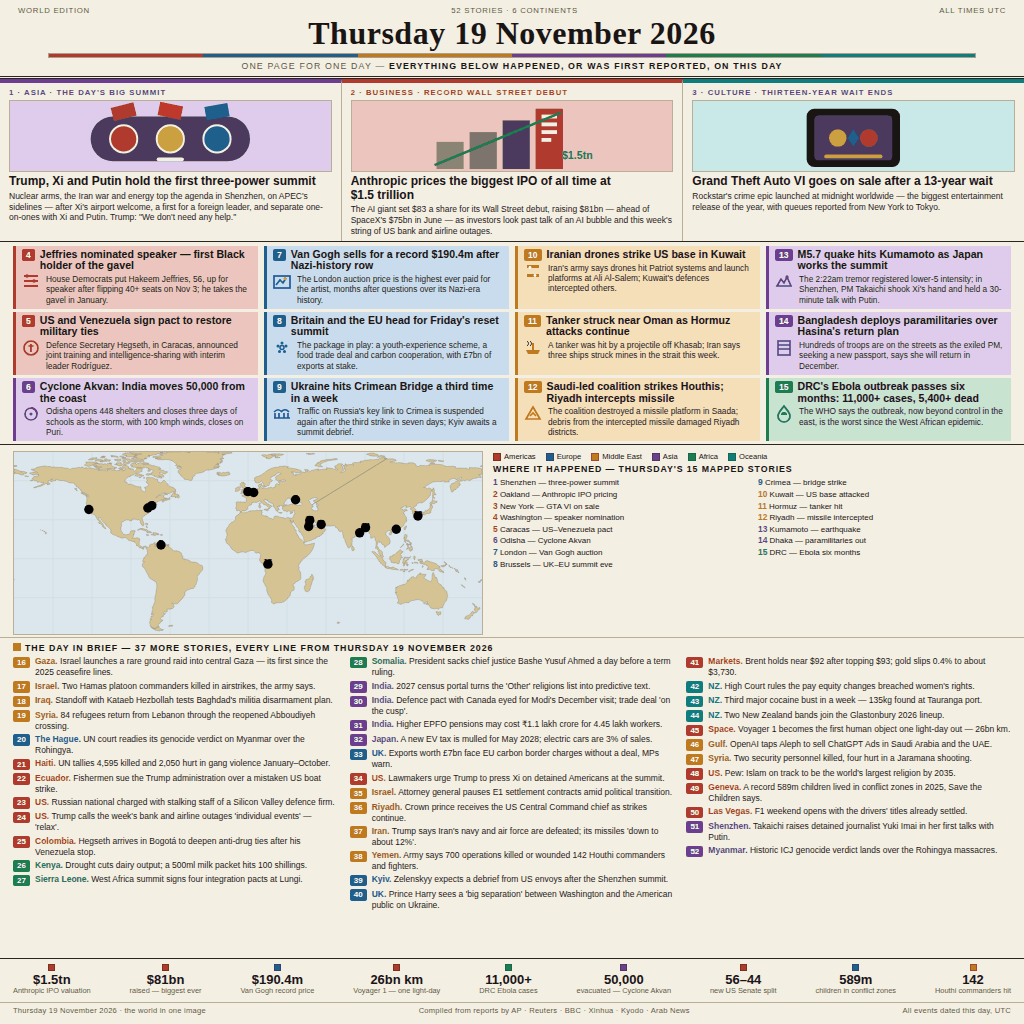
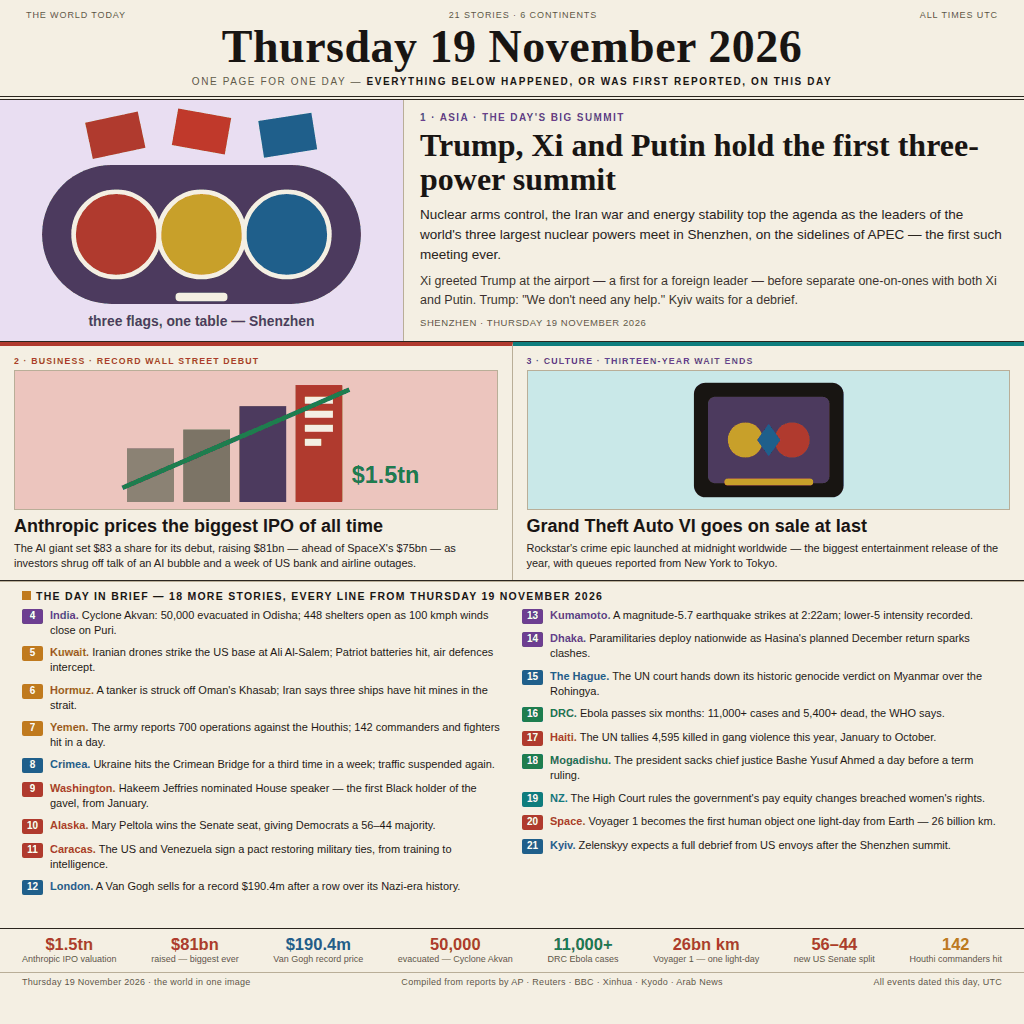
v3: The World Today — clean curated front page, 21 stories in large type, big drawn lead art

diff --git a/poster/poster-clean.html b/poster/poster-clean.html
@@ -1,0 +1,186 @@
+<!DOCTYPE html>
+<html lang="en">
+<head>
+<meta charset="utf-8">
+<title>The World Today — Thursday 19 November 2026</title>
+<style>
+  :root{
+    --paper:#f4efe3; --ink:#181512; --faint:#5f584a; --rule:#2a251e;
+    --amr:#b03a2e; --eur:#1f5f8b; --mid:#c07a1e; --asi:#6d3d8f; --afr:#1e7d4e; --ocn:#0e7d7d;
+  }
+  *{margin:0;padding:0;box-sizing:border-box;}
+  html,body{width:1024px;height:1024px;overflow:hidden;}
+  body{
+    background:var(--paper); color:var(--ink);
+    font-family:"Liberation Sans","DejaVu Sans",Arial,sans-serif;
+    display:flex; flex-direction:column; height:1024px;
+  }
+  .band{flex:0 0 auto; overflow:hidden;}
+  /* masthead */
+  #masthead{padding:10px 26px 0 26px; text-align:center; border-bottom:4px double var(--rule);}
+  #masthead .corners{display:flex; justify-content:space-between; font-size:9px; letter-spacing:.1em; color:var(--faint); text-transform:uppercase;}
+  #masthead h1{font-family:"Liberation Serif","DejaVu Serif",Georgia,serif; font-weight:700; font-size:46px; letter-spacing:.5px; line-height:1.02; margin-top:4px;}
+  #masthead .strap{font-size:10px; letter-spacing:.16em; text-transform:uppercase; color:var(--faint); margin:5px 0 9px 0;}
+  #masthead .strap b{color:var(--ink);}
+  /* lead package */
+  #lead{display:flex; height:242px; border-bottom:1.5px solid var(--rule);}
+  #leadart{flex:0 0 404px; background:#e9def2; border-right:1px solid #b9ae98; position:relative; overflow:hidden;}
+  #leadart svg{position:absolute; inset:0; width:100%; height:100%;}
+  #leadstory{flex:1 1 auto; padding:12px 16px 8px 16px;}
+  #leadstory .kicker{font-size:10px; font-weight:700; letter-spacing:.14em; text-transform:uppercase; color:var(--asi); margin-bottom:6px;}
+  #leadstory h2{font-family:"Liberation Serif","DejaVu Serif",Georgia,serif; font-size:32px; line-height:1.06; font-weight:700; margin-bottom:8px;}
+  #leadstory p{font-size:13.5px; line-height:1.5; color:#26221b; margin-bottom:7px;}
+  #leadstory p.last{color:#3c382e; font-size:12.5px;}
+  #leadstory .dateline{font-size:9.5px; color:var(--faint); letter-spacing:.06em; text-transform:uppercase; margin-top:4px;}
+  /* two secondary heroes */
+  #seconds{display:flex; border-bottom:1.5px solid var(--rule);}
+  .sec{flex:1 1 0; padding:10px 14px 8px 14px; border-right:1px solid #b9ae98; display:flex; flex-direction:column;}
+  .sec:last-child{border-right:none;}
+  .sec .kicker{font-size:8.8px; font-weight:700; letter-spacing:.13em; text-transform:uppercase; margin-bottom:4px;}
+  .sec .art{height:140px; border:1px solid #b9ae98; position:relative; overflow:hidden; margin-bottom:6px;}
+  .sec .art svg{position:absolute; inset:0; width:100%; height:100%;}
+  .sec h3{font-size:18px; line-height:1.12; margin-bottom:5px;}
+  .sec p{font-size:11px; line-height:1.4; color:#26221b;}
+  .s-amr{border-top:4px solid var(--amr);} .s-amr .art{background:#ecc5be;}
+  .s-ocn{border-top:4px solid var(--ocn);} .s-ocn .art{background:#c9e8e8;}
+  /* brief rows: 18 stories, big type, two columns */
+  #briefs{padding:6px 22px 0 22px; border-top:1px solid #b9ae98;}
+  #briefs .bh{font-size:10.5px; font-weight:700; letter-spacing:.12em; text-transform:uppercase; margin:2px 0 6px 0;}
+  #briefs .bh .sq{display:inline-block; width:9px; height:9px; margin-right:5px; background:var(--mid);}
+  .cols{display:flex; gap:20px;}
+  .col{flex:1 1 0; height:318px; overflow:hidden;}
+  .brief{display:flex; gap:7px; margin-bottom:7.5px; align-items:flex-start;}
+  .brief .n{flex:0 0 21px; font-size:10px; font-weight:700; color:#fff; border-radius:2px; height:15px; text-align:center; line-height:14px; margin-top:1px;}
+  .brief p{font-size:11px; line-height:1.36; color:#1e1b16;}
+  .brief p b{font-size:11px;}
+  .b-amr p b{color:var(--amr);} .b-eur p b{color:var(--eur);} .b-mid p b{color:#9c6216;}
+  .b-asi p b{color:var(--asi);} .b-afr p b{color:var(--afr);} .b-ocn p b{color:var(--ocn);}
+  /* numbers + footer */
+  #numbers{border-top:1.5px solid var(--rule); margin-top:2px; padding:7px 22px 4px 22px; display:flex; justify-content:space-between;}
+  .fig{text-align:center; min-width:0;}
+  .fig .v{font-size:16.5px; font-weight:700; line-height:1.05;}
+  .fig .l{font-size:9px; color:var(--faint); line-height:1.2; margin-top:1px;}
+  .amr{background:var(--amr);} .eur{background:var(--eur);} .mid{background:var(--mid);}
+  .asi{background:var(--asi);} .afr{background:var(--afr);} .ocn{background:var(--ocn);}
+  .t-amr{color:var(--amr);} .t-eur{color:var(--eur);} .t-mid{color:var(--mid);}
+  .t-asi{color:var(--asi);} .t-afr{color:var(--afr);} .t-ocn{color:var(--ocn);}
+  #footer{margin-top:3px; padding:4px 22px 4px 22px; border-top:1px solid #b9ae98; font-size:9px; color:var(--faint); display:flex; justify-content:space-between; letter-spacing:.03em;}
+</style>
+</head>
+<body>
+
+<!-- ============ MASTHEAD ============ -->
+<div id="masthead" class="band">
+  <div class="corners"><span>The World Today</span><span>21 stories · 6 continents</span><span>All times UTC</span></div>
+  <h1>Thursday 19 November 2026</h1>
+  <div class="strap">One page for one day — <b>everything below happened, or was first reported, on this day</b></div>
+</div>
+
+<!-- ============ LEAD STORY ============ -->
+<div id="lead" class="band">
+  <div id="leadart">
+    <svg viewBox="0 0 404 260" preserveAspectRatio="xMidYMid meet">
+      <rect width="404" height="260" fill="#e9def2"/>
+      <rect x="30" y="70" width="344" height="150" rx="75" fill="#4c3a5e"/>
+      <circle cx="110" cy="145" r="46" fill="#b03a2e"/>
+      <circle cx="202" cy="145" r="46" fill="#c8a02a"/>
+      <circle cx="294" cy="145" r="46" fill="#1f5f8b"/>
+      <rect x="80" y="18" width="58" height="40" fill="#b03a2e" transform="rotate(-12 109 38)"/>
+      <rect x="173" y="14" width="58" height="40" fill="#c0392b" transform="rotate(10 202 34)"/>
+      <rect x="266" y="18" width="58" height="40" fill="#1f5f8b" transform="rotate(-9 295 38)"/>
+      <circle cx="110" cy="145" r="46" fill="none" stroke="#f4efe3" stroke-width="5"/>
+      <circle cx="202" cy="145" r="46" fill="none" stroke="#f4efe3" stroke-width="5"/>
+      <circle cx="294" cy="145" r="46" fill="none" stroke="#f4efe3" stroke-width="5"/>
+      <rect x="174" y="208" width="56" height="9" rx="4" fill="#f4efe3"/>
+      <text x="202" y="244" font-size="15" text-anchor="middle" fill="#4c3a5e" font-family="Liberation Sans" font-weight="bold">three flags, one table — Shenzhen</text>
+    </svg>
+  </div>
+  <div id="leadstory">
+    <div class="kicker">1 · Asia · The day's big summit</div>
+    <h2>Trump, Xi and Putin hold the first three-power summit</h2>
+    <p>Nuclear arms control, the Iran war and energy stability top the agenda as the leaders of the world's three largest nuclear powers meet in Shenzhen, on the sidelines of APEC — the first such meeting ever.</p>
+    <p class="last">Xi greeted Trump at the airport — a first for a foreign leader — before separate one-on-ones with both Xi and Putin. Trump: "We don't need any help." Kyiv waits for a debrief.</p>
+    <div class="dateline">Shenzhen · Thursday 19 November 2026</div>
+  </div>
+</div>
+
+<!-- ============ SECONDARY HEROES (2–3) ============ -->
+<div id="seconds" class="band">
+  <div class="sec s-amr">
+    <div class="kicker t-amr">2 · Business · Record Wall Street debut</div>
+    <div class="art">
+      <svg viewBox="0 0 280 118" preserveAspectRatio="xMidYMid meet">
+        <rect x="30" y="66" width="40" height="46" fill="#8b8274"/><rect x="78" y="50" width="40" height="62" fill="#7c7466"/>
+        <rect x="126" y="30" width="40" height="82" fill="#4c3a5e"/><rect x="174" y="12" width="40" height="100" fill="#b03a2e"/>
+        <rect x="182" y="22" width="24" height="6" fill="#f4efe3"/><rect x="182" y="34" width="24" height="6" fill="#f4efe3"/>
+        <rect x="182" y="46" width="24" height="6" fill="#f4efe3"/><rect x="182" y="58" width="14" height="6" fill="#f4efe3"/>
+        <path d="M26 100 L220 16" stroke="#1e7d4e" stroke-width="4" fill="none"/>
+        <text x="222" y="96" font-size="20" font-weight="bold" fill="#1e7d4e">$1.5tn</text>
+      </svg>
+    </div>
+    <h3>Anthropic prices the biggest IPO of all time</h3>
+    <p>The AI giant set $83 a share for its debut, raising $81bn — ahead of SpaceX's $75bn — as investors shrug off talk of an AI bubble and a week of US bank and airline outages.</p>
+  </div>
+  <div class="sec s-ocn">
+    <div class="kicker t-asi">3 · Culture · Thirteen-year wait ends</div>
+    <div class="art">
+      <svg viewBox="0 0 280 118" preserveAspectRatio="xMidYMid meet">
+        <rect x="76" y="10" width="128" height="98" rx="10" fill="#181512"/>
+        <rect x="88" y="22" width="104" height="74" rx="6" fill="#4c3a5e"/>
+        <circle cx="120" cy="59" r="15" fill="#c8a02a"/><circle cx="160" cy="59" r="15" fill="#b03a2e"/>
+        <path d="M140 45 L150 59 L140 73 L130 59 Z" fill="#1f5f8b"/>
+        <rect x="102" y="92" width="76" height="6" rx="3" fill="#c8a02a"/>
+      </svg>
+    </div>
+    <h3>Grand Theft Auto VI goes on sale at last</h3>
+    <p>Rockstar's crime epic launched at midnight worldwide — the biggest entertainment release of the year, with queues reported from New York to Tokyo.</p>
+  </div>
+</div>
+
+<!-- ============ THE DAY IN BRIEF (4–21) ============ -->
+<div id="briefs" class="band">
+  <div class="bh"><span class="sq"></span>The day in brief — 18 more stories, every line from Thursday 19 November 2026</div>
+  <div class="cols">
+    <div class="col" id="colA">
+      <div class="brief b-asi"><span class="n asi">4</span><p><b>India.</b> Cyclone Akvan: 50,000 evacuated in Odisha; 448 shelters open as 100 kmph winds close on Puri.</p></div>
+      <div class="brief b-mid"><span class="n mid">5</span><p><b>Kuwait.</b> Iranian drones strike the US base at Ali Al-Salem; Patriot batteries hit, air defences intercept.</p></div>
+      <div class="brief b-mid"><span class="n mid">6</span><p><b>Hormuz.</b> A tanker is struck off Oman's Khasab; Iran says three ships have hit mines in the strait.</p></div>
+      <div class="brief b-mid"><span class="n mid">7</span><p><b>Yemen.</b> The army reports 700 operations against the Houthis; 142 commanders and fighters hit in a day.</p></div>
+      <div class="brief b-eur"><span class="n eur">8</span><p><b>Crimea.</b> Ukraine hits the Crimean Bridge for a third time in a week; traffic suspended again.</p></div>
+      <div class="brief b-amr"><span class="n amr">9</span><p><b>Washington.</b> Hakeem Jeffries nominated House speaker — the first Black holder of the gavel, from January.</p></div>
+      <div class="brief b-amr"><span class="n amr">10</span><p><b>Alaska.</b> Mary Peltola wins the Senate seat, giving Democrats a 56–44 majority.</p></div>
+      <div class="brief b-amr"><span class="n amr">11</span><p><b>Caracas.</b> The US and Venezuela sign a pact restoring military ties, from training to intelligence.</p></div>
+      <div class="brief b-eur"><span class="n eur">12</span><p><b>London.</b> A Van Gogh sells for a record $190.4m after a row over its Nazi-era history.</p></div>
+    </div>
+    <div class="col" id="colB">
+      <div class="brief b-asi"><span class="n asi">13</span><p><b>Kumamoto.</b> A magnitude-5.7 earthquake strikes at 2:22am; lower-5 intensity recorded.</p></div>
+      <div class="brief b-asi"><span class="n asi">14</span><p><b>Dhaka.</b> Paramilitaries deploy nationwide as Hasina's planned December return sparks clashes.</p></div>
+      <div class="brief b-eur"><span class="n eur">15</span><p><b>The Hague.</b> The UN court hands down its historic genocide verdict on Myanmar over the Rohingya.</p></div>
+      <div class="brief b-afr"><span class="n afr">16</span><p><b>DRC.</b> Ebola passes six months: 11,000+ cases and 5,400+ dead, the WHO says.</p></div>
+      <div class="brief b-amr"><span class="n amr">17</span><p><b>Haiti.</b> The UN tallies 4,595 killed in gang violence this year, January to October.</p></div>
+      <div class="brief b-afr"><span class="n afr">18</span><p><b>Mogadishu.</b> The president sacks chief justice Bashe Yusuf Ahmed a day before a term ruling.</p></div>
+      <div class="brief b-ocn"><span class="n ocn">19</span><p><b>NZ.</b> The High Court rules the government's pay equity changes breached women's rights.</p></div>
+      <div class="brief b-amr"><span class="n amr">20</span><p><b>Space.</b> Voyager 1 becomes the first human object one light-day from Earth — 26 billion km.</p></div>
+      <div class="brief b-eur"><span class="n eur">21</span><p><b>Kyiv.</b> Zelenskyy expects a full debrief from US envoys after the Shenzhen summit.</p></div>
+    </div>
+  </div>
+</div>
+
+<!-- ============ BY THE NUMBERS + FOOTER ============ -->
+<div id="numbers" class="band">
+  <div class="fig t-amr"><div class="v">$1.5tn</div><div class="l">Anthropic IPO valuation</div></div>
+  <div class="fig t-amr"><div class="v">$81bn</div><div class="l">raised — biggest ever</div></div>
+  <div class="fig t-eur"><div class="v">$190.4m</div><div class="l">Van Gogh record price</div></div>
+  <div class="fig t-amr"><div class="v">50,000</div><div class="l">evacuated — Cyclone Akvan</div></div>
+  <div class="fig t-afr"><div class="v">11,000+</div><div class="l">DRC Ebola cases</div></div>
+  <div class="fig t-amr"><div class="v">26bn km</div><div class="l">Voyager 1 — one light-day</div></div>
+  <div class="fig t-amr"><div class="v">56–44</div><div class="l">new US Senate split</div></div>
+  <div class="fig t-mid"><div class="v">142</div><div class="l">Houthi commanders hit</div></div>
+</div>
+<div id="footer" class="band">
+  <span>Thursday 19 November 2026 · the world in one image</span>
+  <span>Compiled from reports by AP · Reuters · BBC · Xinhua · Kyodo · Arab News</span>
+  <span>All events dated this day, UTC</span>
+</div>
+</body>
+</html>
